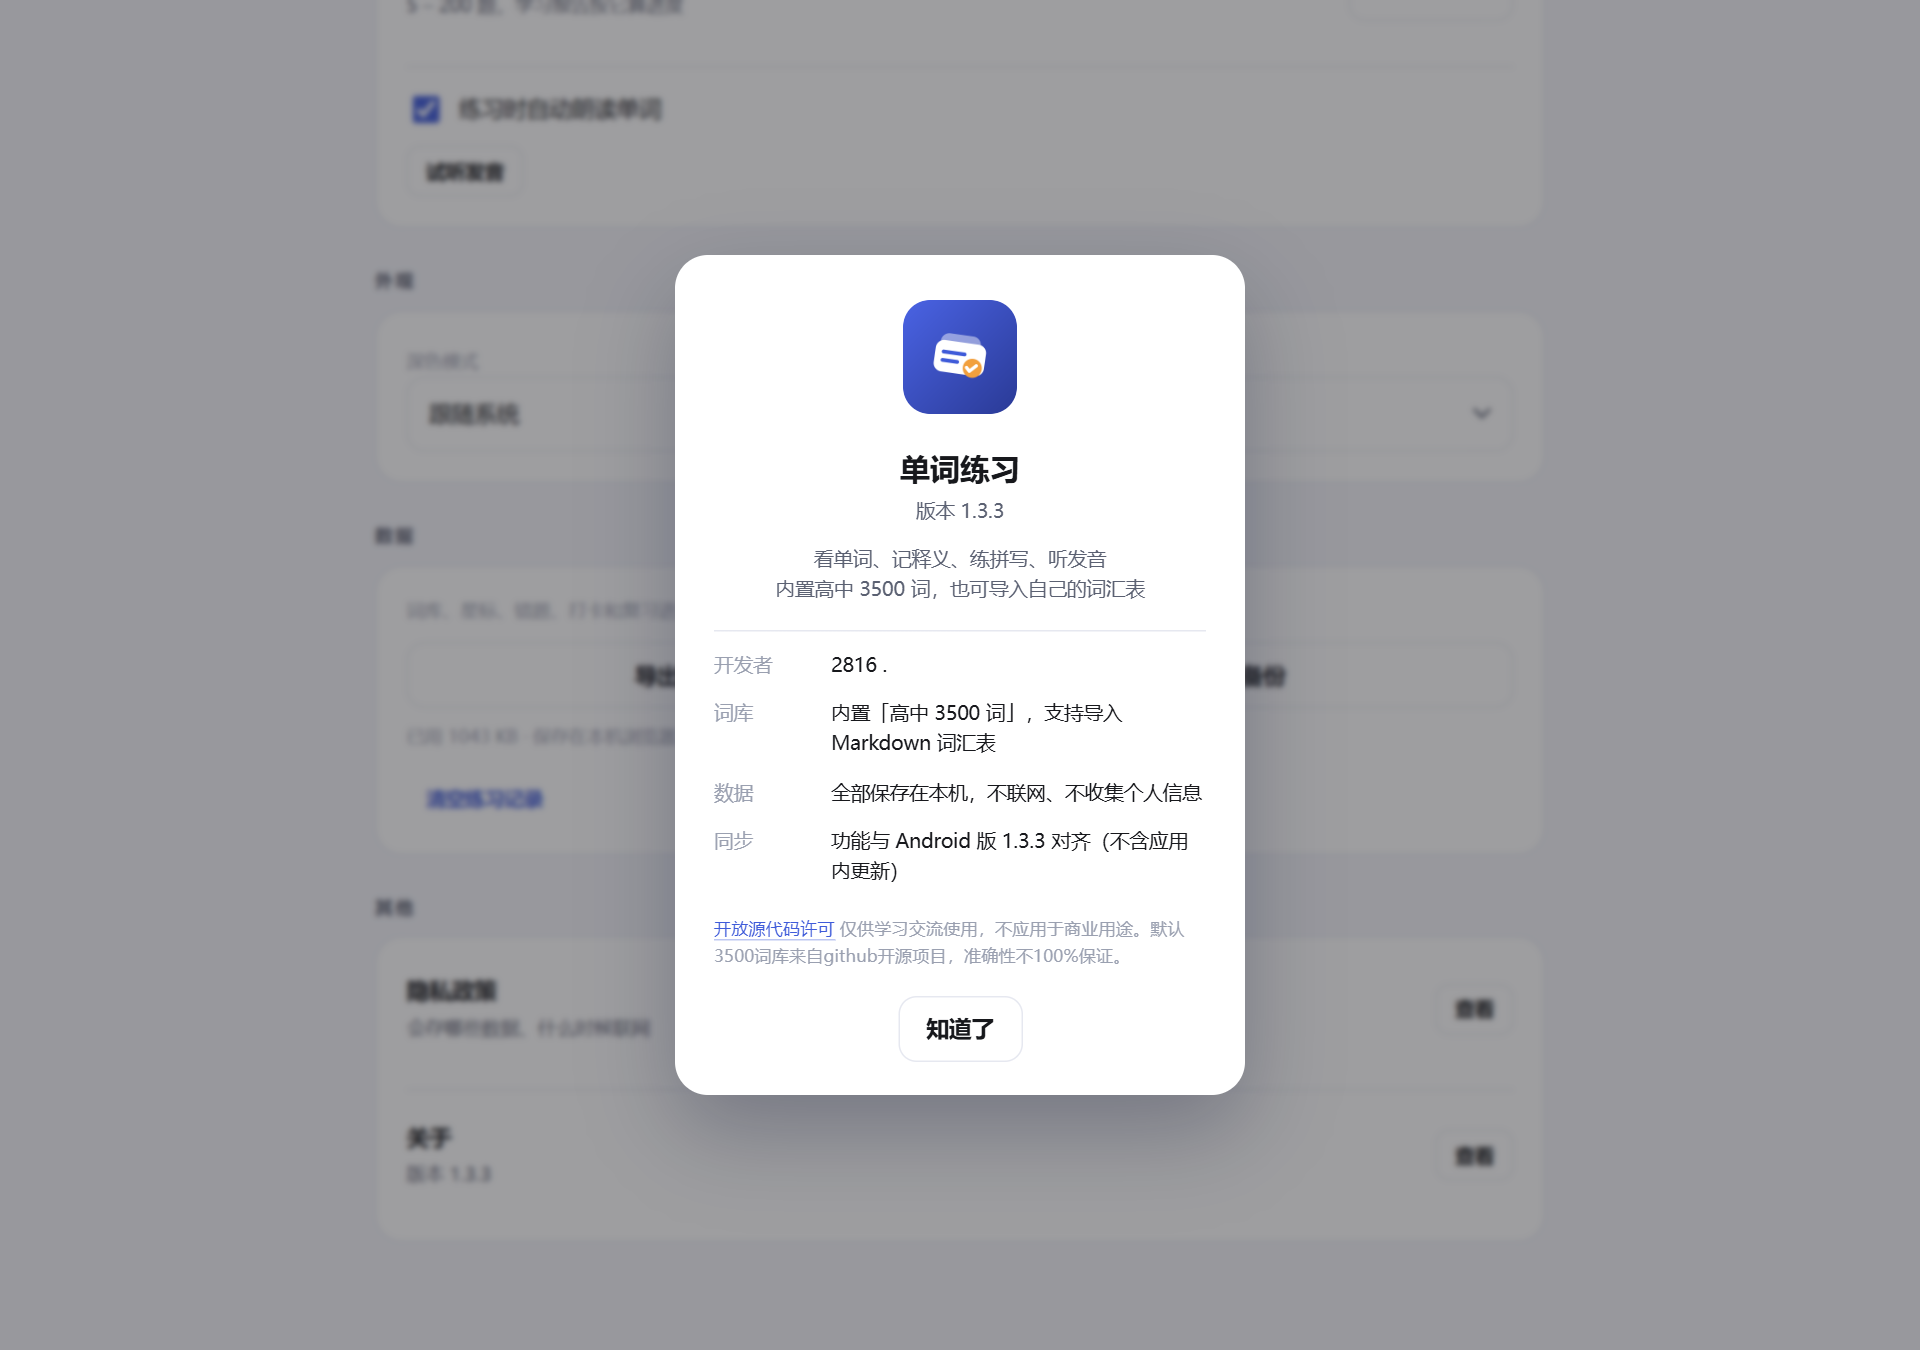
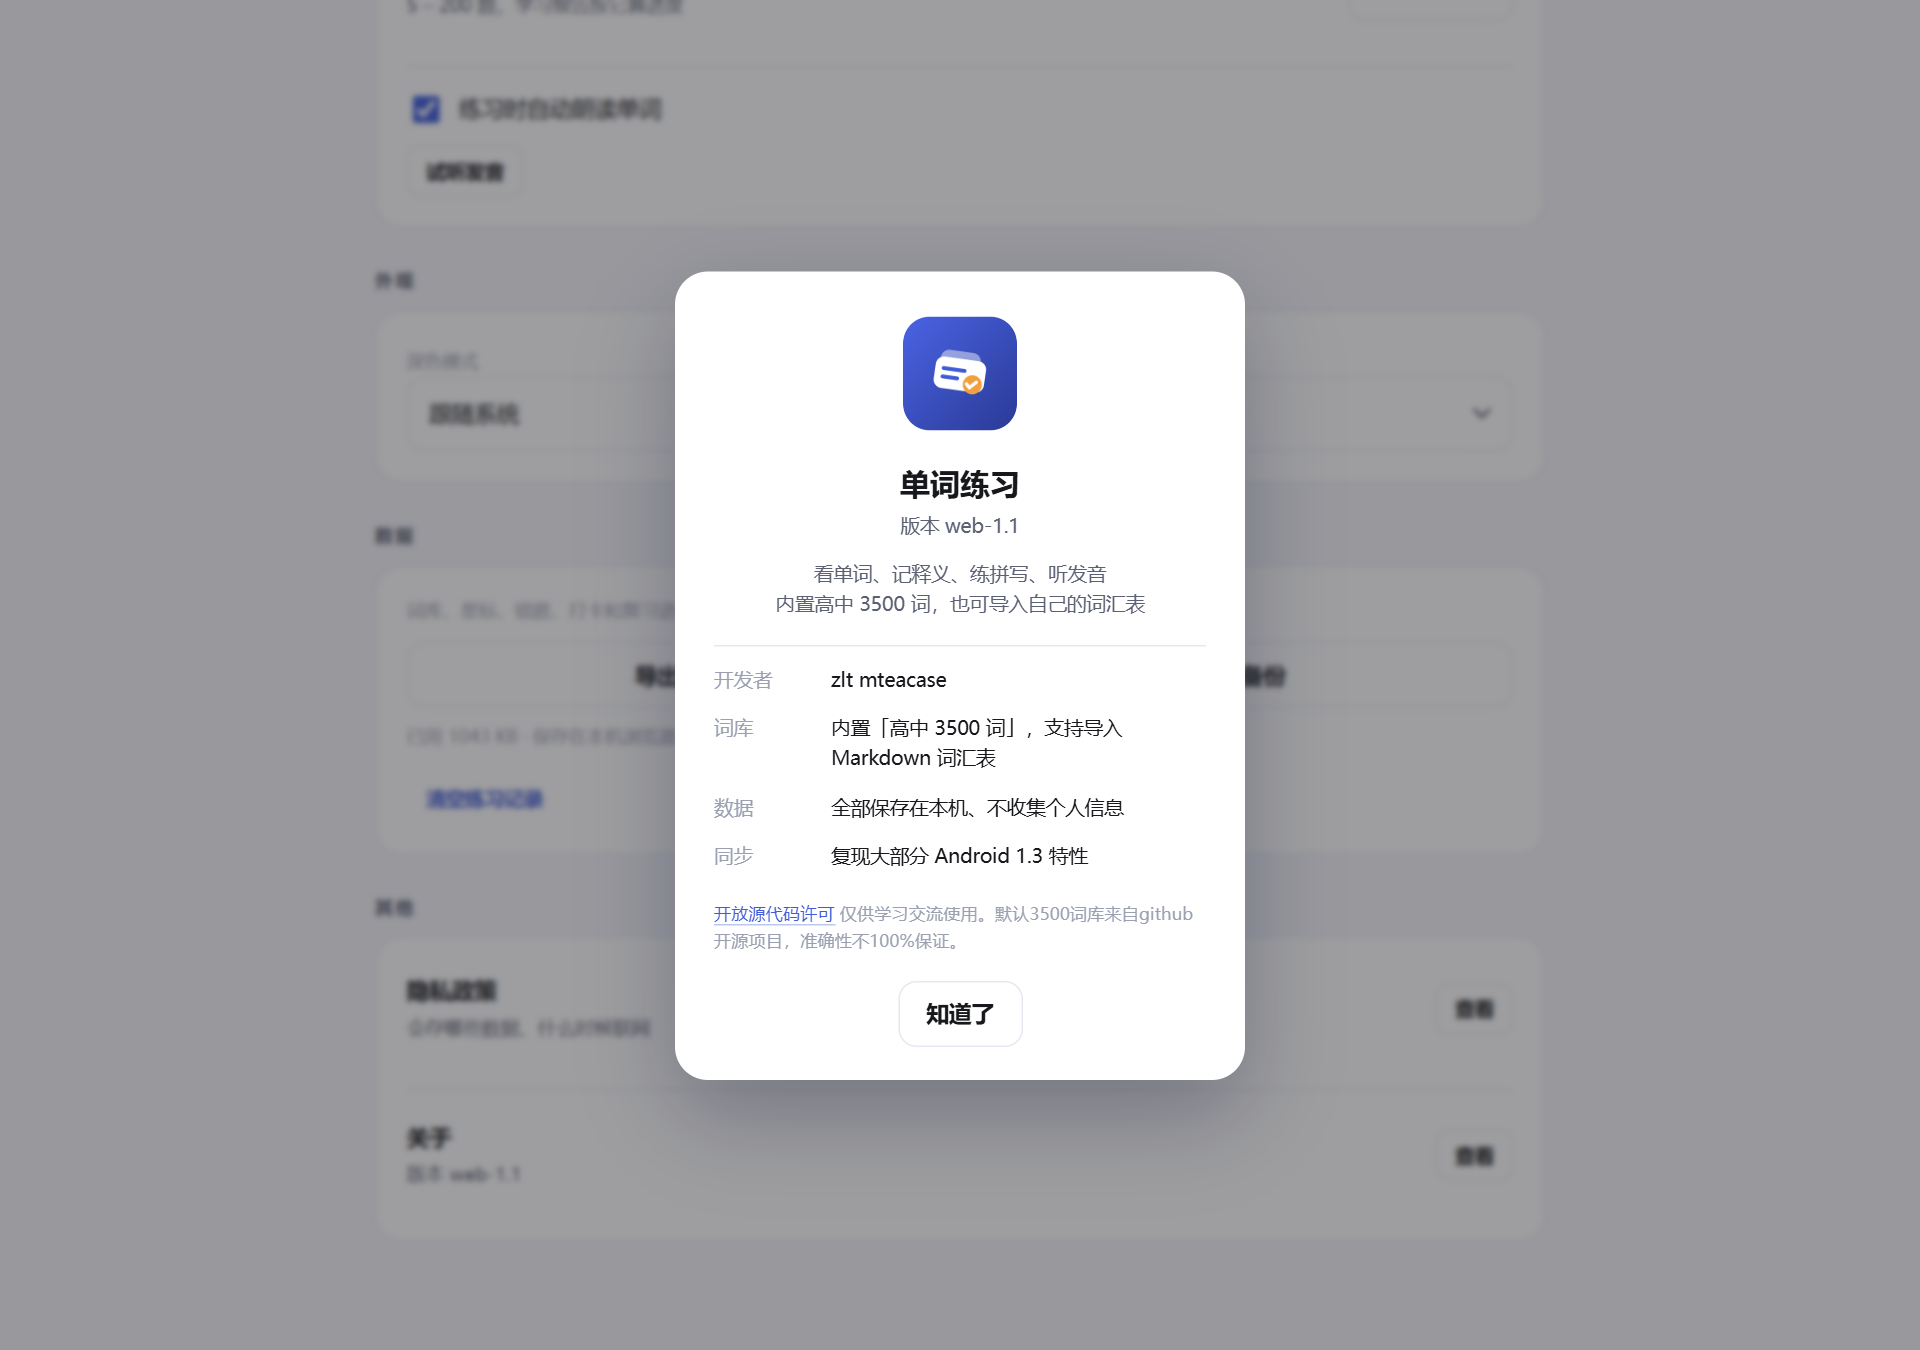
chore: 更新关于页的版本号、作者与平台说明

Changed region(s): [[0.3438, 0.1867, 0.6562, 0.7156], [0.3438, 0.7467, 0.6562, 0.8089], [0.375, 0.4667, 0.4062, 0.56]]

diff --git a/scripts/ui-smoke.js b/scripts/ui-smoke.js
@@ -145,8 +145,8 @@ async function main() {
     await page.click('[data-action="about"]');
     await page.waitForSelector('.about-card');
     const about = await page.textContent('.about-card');
-    check(about.includes('版本 1.3.3'), '关于页应显示版本');
-    check(about.includes('2816 .'), '关于页应显示开发者');
+    check(about.includes('版本 web-1.1'), '关于页应显示版本');
+    check(about.includes('zlt mteacase'), '关于页应显示开发者');
     await page.keyboard.press('Escape');
 
     /* ---------- 刷新后数据还在 ---------- */

diff --git a/public/js/repo.js b/public/js/repo.js
@@ -8,7 +8,7 @@ import { parseMarkdown, decodeText } from './vocab.js';
 import { parseAbout } from './about.js';
 import { createStorage, getLocalStorage, memoryStorage, exportBackup, parseBackup } from './persist.js';
 
-export const VERSION = '1.3.3';
+export const VERSION = 'web-1.1';
 export { MODES, isCorrect };
 
 const SEED_URL = new URL('../assets/words3500.json', import.meta.url);

diff --git a/README.md b/README.md
@@ -7,7 +7,7 @@
 
 **在线使用：<https://wordrill.zzlltt.xyz/>**
 
-当前功能对齐 Android 版 **1.3.3**（应用内检查更新除外）。
+当前为 **web-1.1**：复现大部分 Android 1.3 特性（应用内检查更新除外）。
 
 ## 装到设备上
 
